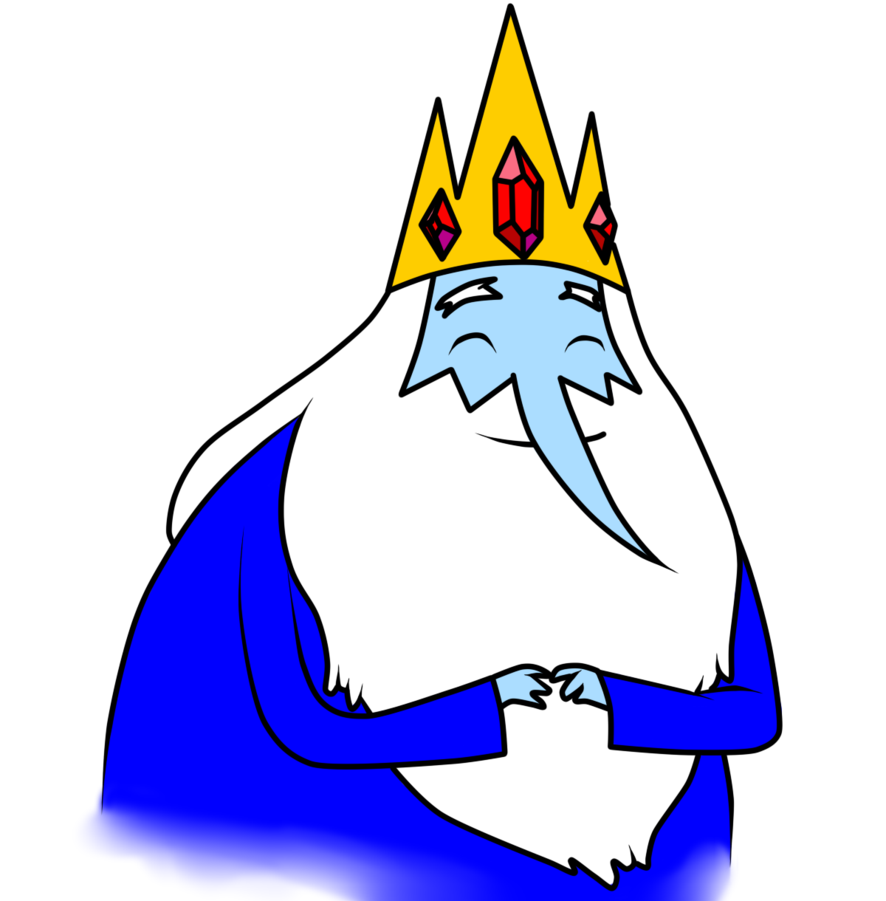
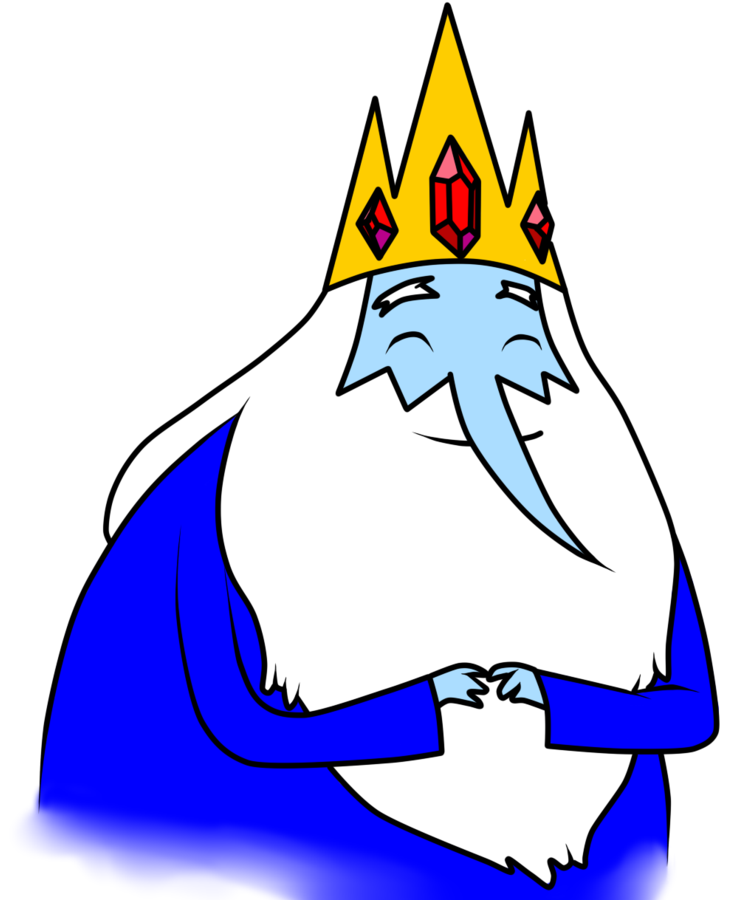
Commit

Changed region(s): [[0.3918, 0.0, 0.9945, 1.0], [0.0301, 0.3733, 0.4822, 0.9956], [0.874, 0.4978, 0.9041, 0.56]]

diff --git a/components/Character.js b/components/Character.js
@@ -1,7 +1,7 @@
 import React from "react";
 import styled from "styled-components";
 
-import Code from './Code'
+import Code from "./Code";
 
 export default class Character extends React.Component {
   constructor(props) {
@@ -20,29 +20,52 @@ export default class Character extends React.Component {
   }
 
   handleMouseLeave(event) {
-    this.setState({ active: false });
+    this.setState({ 
+      active: false, 
+      // codeVisible: false  // testing only, otherwise can lose behind mag glass
+    });
   }
 
   handleClick(event) {
-    this.setState({ active: true });
+    this.setState({ codeVisible: true });
   }
 
   renderCharacter() {
     if (this.state.codeVisible && this.props.codeSnippet) {
       return (
-        <Code>{this.props.codeSnippet}</Code>
+        <div css={{ position: "relative" }}>
+          <Image
+            src={this.props.activeSrc || this.props.src}
+            css={{
+              height: this.props.height,
+              position: "absolute",
+              opacity: "0.5",
+              bottom: "0",
+              left: "0"
+            }}
+          />
+          <Code>{this.props.codeSnippet}</Code>
+        </div>
       );
     } else {
-      if (this.state.active) {
-        return (<ActiveImage
-          src={this.props.activeSrc}
-          css={{ height: this.props.height }}
-        />)
+      if (this.state.active && this.props.activeSrc) {
+        return (
+          <Image
+            src={this.props.activeSrc}
+            css={{ height: this.props.height }}
+          />
+        );
+      } else if (this.state.active) {
+        return (
+          <ZoomedImage
+            src={this.props.src}
+            css={{ height: this.props.height }}
+          />
+        );
       } else {
-        return (<Image
-          src={this.props.src}
-          css={{ height: this.props.height }}
-        />)
+        return (
+          <Image src={this.props.src} css={{ height: this.props.height }} />
+        );
       }
     }
   }
@@ -64,9 +87,14 @@ Character.defaultProps = {
   height: `50vh`,
   src: ``,
   activeSrc: ``
+};
+
+const Image = styled.img`
+`;
+
+const ZoomedImage = styled(Image)`
+zoom: 1.5;
+:hover {
+  transition: all .2s ease-in-out;
 }
-
-const Image = styled.img``;
-
-const ActiveImage = styled(Image)`
 `;

diff --git a/components/Code.js b/components/Code.js
@@ -1,19 +1,48 @@
-import React from 'react'
-import styled from 'styled-components'
+import React from "react";
+import styled from "styled-components";
+import { Prism as SyntaxHighlighter } from "react-syntax-highlighter";
+import { prism } from "react-syntax-highlighter/dist/esm/styles/prism";
 
-const Code = (props) => (
-  <Pre {...props}>
-  </Pre>
-)
+const Code = props => (
+  <Wrapper>
+    <Overlay />
+    <SyntaxHighlighter
+      language={props.language}
+      style={prism}
+      customStyle={{
+        margin: "0",
+        background: "none",
+        position: "relative",
+        zIndex: "2"
+      }}
+    >
+      {props.children}
+    </SyntaxHighlighter>
+  </Wrapper>
+);
 
-const Pre = styled.pre`
-background: white;
-font-size: 18px;
-line-height: 22px;
-padding: 25px;
-margin: 25px;
-overflow: hidden;
-border: 1px solid #0a0a0a;
-`
+Code.defaultProps = {
+  language: `jsx`
+};
 
-export default Code
+const Wrapper = styled.div`
+  position: relative;
+  overflow: hidden;
+  border: 1px solid #cacaca;
+  border-radius: 10px;
+  font-size: 18px;
+  line-height: 22px;
+`;
+
+const Overlay = styled.div`
+  position: absolute;
+  z-index: 1;
+  width: 100%;
+  height: 100%;
+  background: white;
+  background-size: cover;
+  opacity: 0.75;
+  border-radius: 10px;
+`;
+
+export default Code;

diff --git a/snippets/index.js b/snippets/index.js
@@ -1,22 +1,37 @@
-export const smallKingSnippet = `
-import KingMarkdown from 'components/KingMarkdown.js'
-
-# Meet King Markdown
-
-<KingMarkdown height="25vh" />
-
-`
-
-export const bigKingSnippet = `
+export const mdx1 = `
 import KingMarkdown from 'components/KingMarkdown.js'
 
 # Meet King Markdown
 
 <KingMarkdown height="50vh" />
 
+The king likes his content text-heavy.
+
 `
 
-export const snippetKingMarkdown =  `
+export const mdx2 = `
+import KingMarkdown from 'components/KingMarkdown.js'
+
+# Meet King Markdown
+
+<KingMarkdown height="75vh" />
+
+The king likes his content text-heavy.
+
+`
+
+export const mdx3 = `
+import KingMarkdown from 'components/KingMarkdown.js'
+
+# Meet King Markdown
+
+<KingMarkdown height="75vh" src="/images/king-markdown-2.png" />
+
+The king likes his content text-heavy.
+
+`
+
+export const jsx1 =  `
 import React from "react";
 
 export default class KingMarkdown extends React.Component {

diff --git a/components/Horizontal.js b/components/Horizontal.js
@@ -2,7 +2,7 @@ import React from 'react'
 import Box from '@mdx-deck/layouts/src/Box'
 import Flex from '@mdx-deck/layouts/src/Flex'
 
-const Horizontal = ({ width, children }) => {
+const Horizontal = ({ width, children, style }) => {
   const kids = React.Children.toArray(children)
 
   return (
@@ -10,7 +10,8 @@ const Horizontal = ({ width, children }) => {
       css={{
         alignItems: 'center',
         height: '100%',
-        width: width
+        width: width,
+        ...style
       }}
     >
       {kids.map(child => (

diff --git a/components/PrincessJavaScript.js b/components/PrincessJavaScript.js
@@ -6,6 +6,5 @@ export default class PrincessJavaScript extends Character {
 
 PrincessJavaScript.defaultProps = {
   ...Character.defaultProps,
-  src: `/images/princess-javascript-1.png`,
-  activeSrc: `/images/princess-javascript-2.png`
+  src: `/images/princess-javascript-1.png`
 }

diff --git a/components/KingMarkdown.js b/components/KingMarkdown.js
@@ -6,6 +6,5 @@ export default class KingMarkdown extends Character {
 
 KingMarkdown.defaultProps = {
   ...Character.defaultProps,
-  src: `/images/king-markdown-1.png`,
-  activeSrc: `/images/king-markdown-2.png`,
+  src: `/images/king-markdown-1.png`
 }
